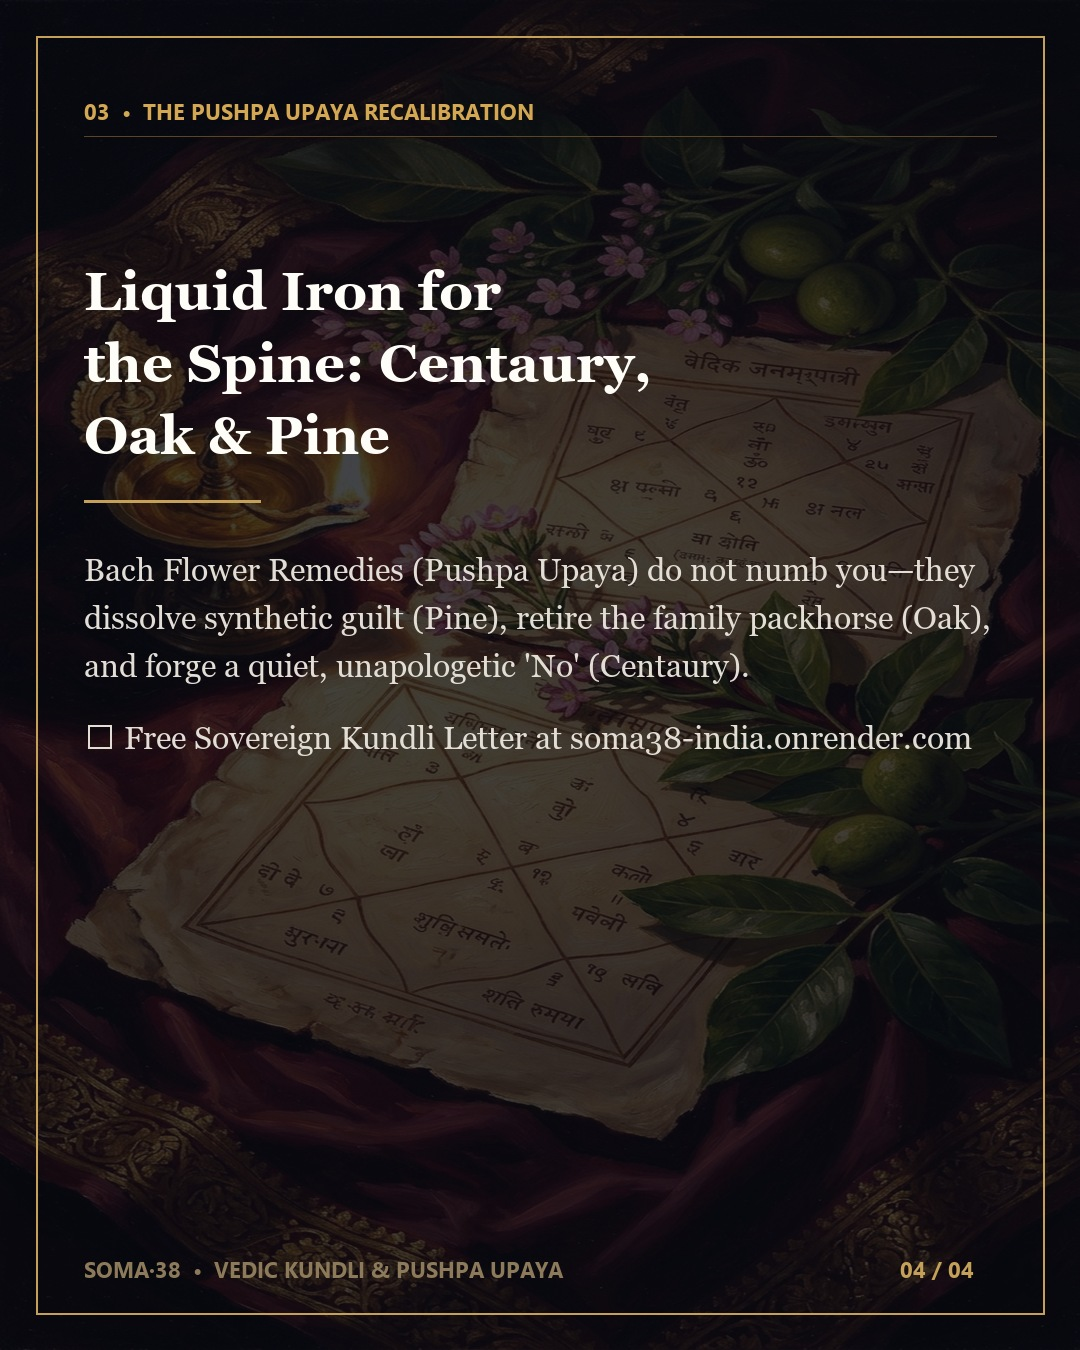
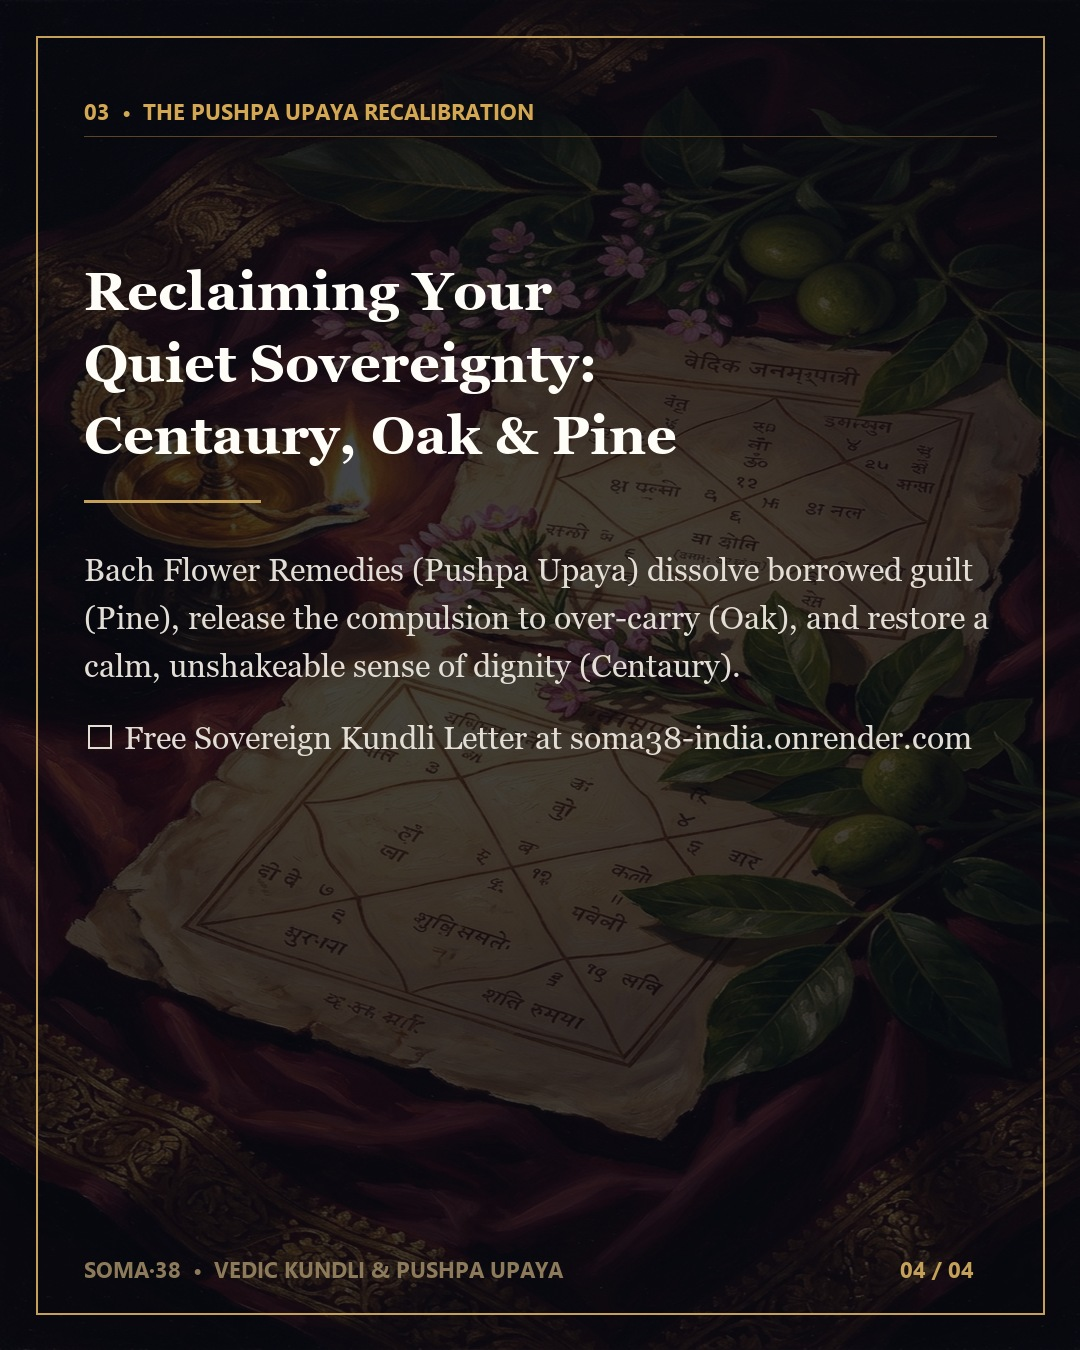
Codify SOMA 38 Theater of Meaning Doctrine & add reflection pins

Changed region(s): [[0.0611, 0.1867, 0.6417, 0.3422], [0.0611, 0.4044, 0.9167, 0.5289]]

diff --git a/docs/SOMA38_THEATER_OF_MEANING_DOCTRINE.md b/docs/SOMA38_THEATER_OF_MEANING_DOCTRINE.md
@@ -1,0 +1,95 @@
+# SOMA·38 (सोम·३८) — The Theater of Meaning & Sovereign Adherence Doctrine
+========================================================================================
+
+## I. Executive Premise: The Architecture of Adherence
+
+Modern audiences do not adhere to platforms for clinical facts, mechanical life hacks, or generic astrology predictions. Information is cheap and commoditized. 
+
+Audiences adhere permanently to an **Existential Container** that provides **Mythic Dignity** to their unvoiced, private suffering.
+
+When individuals experience acute distress—waking at 3:14 AM with jaw clenching, choking on their words at family dinners, feeling an inexplicable hollowness behind career success—they are in a state of naked existential vulnerability (analogous to the *Moon in Fall*). 
+
+Standard content treats them as broken machines needing repair (*"5 tips to regulate your nervous system"*). This generates zero gravity and zero adherence.
+
+**SOMA·38 transforms private shame into a Sovereign Initiation.**
+
+---
+
+## II. The Four Pillars of the SOMA·38 Theater of Meaning
+
+### 1. Mythic Elevation of Unvoiced Suffering
+Every human symptom is re-anchored into a classical, archetypal, and karmic container:
+
+| Mundane / Clinical Symptom | Generic Content Framing | SOMA·38 Mythic Elevation |
+| :--- | :--- | :--- |
+| People-pleasing & throat constriction at home | "Social anxiety & weak boundaries" | **The Neelakantha Complex**: Holding lethal emotional poison in the throat to preserve false domestic peace. |
+| Hyper-responsibility & burnout | "Chronic overwork & fatigue" | **The Shani Packhorse Contract**: Carrying unearned ancestral burdens to feel indispensable. |
+| Fear of saying 'No' to demanding elders | "Low self-esteem / trauma response" | **Surya Neecha (The Collapsed King)**: Surrendering your sovereign spine for five minutes of fake harmony. |
+| Panic when rest or free time occurs | "Dopamine addiction / restlessness" | **Chandra-Shani Vish Yoga**: An internal prison camp where affection was conditional on usefulness. |
+| Career anxiety & prestige obsession | "Imposter syndrome" | **Ahamkara & Metaphysical Displacement**: The false ego shooting tethers onto titles to cure its inner void. |
+| Relational ambivalence despite good horoscope | "Attachment style conflict" | **Beyond 36 Gunas (Kalatra Shadow)**: Agreeing to a lifetime of polite loneliness because you shrink your soul to be chosen. |
+| Deep, unresolvable childhood ache | "Somatic trauma / freeze state" | **Manovaha Srotas Stagnation**: Subtle emotional channels of the heart clogged with unmourned loss. |
+
+---
+
+### 2. The Initiate Paradigm (No Victims, No Disciples)
+* **The Consumer Trap**: Speaking down to the audience as broken patients or passive disciples waiting for a savior.
+* **The SOMA·38 Tone**: Aristocratic, solemn, precise, and uncompromisingly loving. We address the reader as an **initiate awakening from generational and familial hypnosis**.
+* **Radical Inner Jurisdiction**: Never blame the planets or parents as external victimizers. Rahu, Shani, and Mars are ruthless cosmic mirrors exposing the exact cowardice, bargain, or self-erasure the person is actively choosing.
+* **Remedies as Liquid Iron**: *Pushpa Upaya* (Bach Flower Remedies) are never framed as soft band-aids to "numb anxiety," but as alchemical instruments of sovereignty, truth, and self-command.
+
+---
+
+### 3. In-Group Discernment & The Sovereign Share (Dark-Social Mechanics)
+Why do people forward SOMA·38 on WhatsApp, save it on Instagram, and quote it on Reddit?
+
+Because sharing SOMA·38 is **an assertion of identity and discernment**:
+* When a follower sends a reflection to a sibling or friend:
+  > *"Send this privately to someone who confuses self-sacrifice with virtue."*
+  > *"Pass this on to the one who always plays the family peacemaker."*
+  > *"Forward this to a friend hiding behind a biodata while their gut screams run."*
+* The sender is claiming initiate status: *"I see through the family game. I see through the corporate performance. I am walking with a spine."*
+* Dark-social forwarding drives 80%+ of high-quality follower adherence because it carries peer authority.
+
+---
+
+### 4. Gravitas Over Algorithmic Fluff
+To sustain an existential container, the aesthetic must evoke awe, timelessness, and museum reverence:
+* **Visuals**: Raja Ravi Varma oil paint texture + Caravaggio chiaroscuro lighting + antique gold filigree. No cheap corporate Canva stock or neon gradients.
+* **Typography**: Museum serif headers (Georgia, Palatino, Times) paired with gold Devanagari whispers.
+* **Vocabulary**: Varied, lived subjective human experience (*inner peace, dignity, stillness, vitality, waking up without dread, emotional warmth, quiet authority*). Zero repetitive clinical buzzwords.
+
+---
+
+## III. Channel-by-Channel Execution Standards
+
+### 1. YouTube Shorts & Long-Form
+* **Format**: 9:16 vertical with blurred ambient backdrop, gold Sanskrit framing, and high-contrast kinetic text.
+* **Arc (35–45s)**:
+  1. `0–5s` **Visceral Diagnostic Shock**: Call out the exact physical behavior (jaw clenching, collapsing voice in parents' drawing room).
+  2. `5–18s` **Karmic & Philosophical Elevation**: Connect the behavior to a Graha/Bhava or Vedantic concept (Surya Neecha, Shani Sade Sati, Neti-Neti).
+  3. `18–30s` **Pushpa Upaya Alchemical Countermeasure**: Frame the flower remedies as spine restorers.
+  4. `30–40s` **Sovereign Challenge & Dark-Social Forward**: Prompt them to send it to the exact archetype who needs it.
+
+### 2. WhatsApp VIP Broadcast Channel
+* **Format**: Full-resolution 4:5 Epigrammatic Reflection Card + 3-Paragraph Sovereign Shadow Reflection.
+* **Structure**:
+  * *Paragraph 1*: Piercing exposure of the hidden secondary gain and polite denial.
+  * *Paragraph 2*: Parashari Jyotish + Somatic channel breakdown.
+  * *Paragraph 3*: Pushpa Upaya recalibration + non-repeating, highly targeted dark-social share trigger.
+
+### 3. Multi-Card Carousels (Instagram / LinkedIn / Facebook)
+* **Format**: 4-Slide Step-by-Step Dwell-Time Maximizer.
+* *Slide 1*: Provocative Hook / Archetypal Question.
+* *Slide 2*: Deconstruction of the Unconscious Bargain.
+* *Slide 3*: The Astrological / Subtle Body Map.
+* *Slide 4*: Pushpa Upaya Integration & Sovereign Kundli invitation.
+
+### 4. Sovereign Kundli Letters & Web Platform
+* The web app (`https://soma38-india.onrender.com`) is not a transaction page; it is the **Sanctuary of Initiation**.
+* Reading outputs are framed as an official *Sovereign Patrika Dossier*, providing the user with an exact breakdown of their natal contracts, shadow agreements, and flower remedy prescriptions.
+
+---
+
+## IV. The Golden Rule
+> *"Never tell a user what to think or offer them a superficial remedy for an existential condition. Give them the mirror that exposes their unspoken surrender, and hand them the liquid iron to stand in their own authority."*
